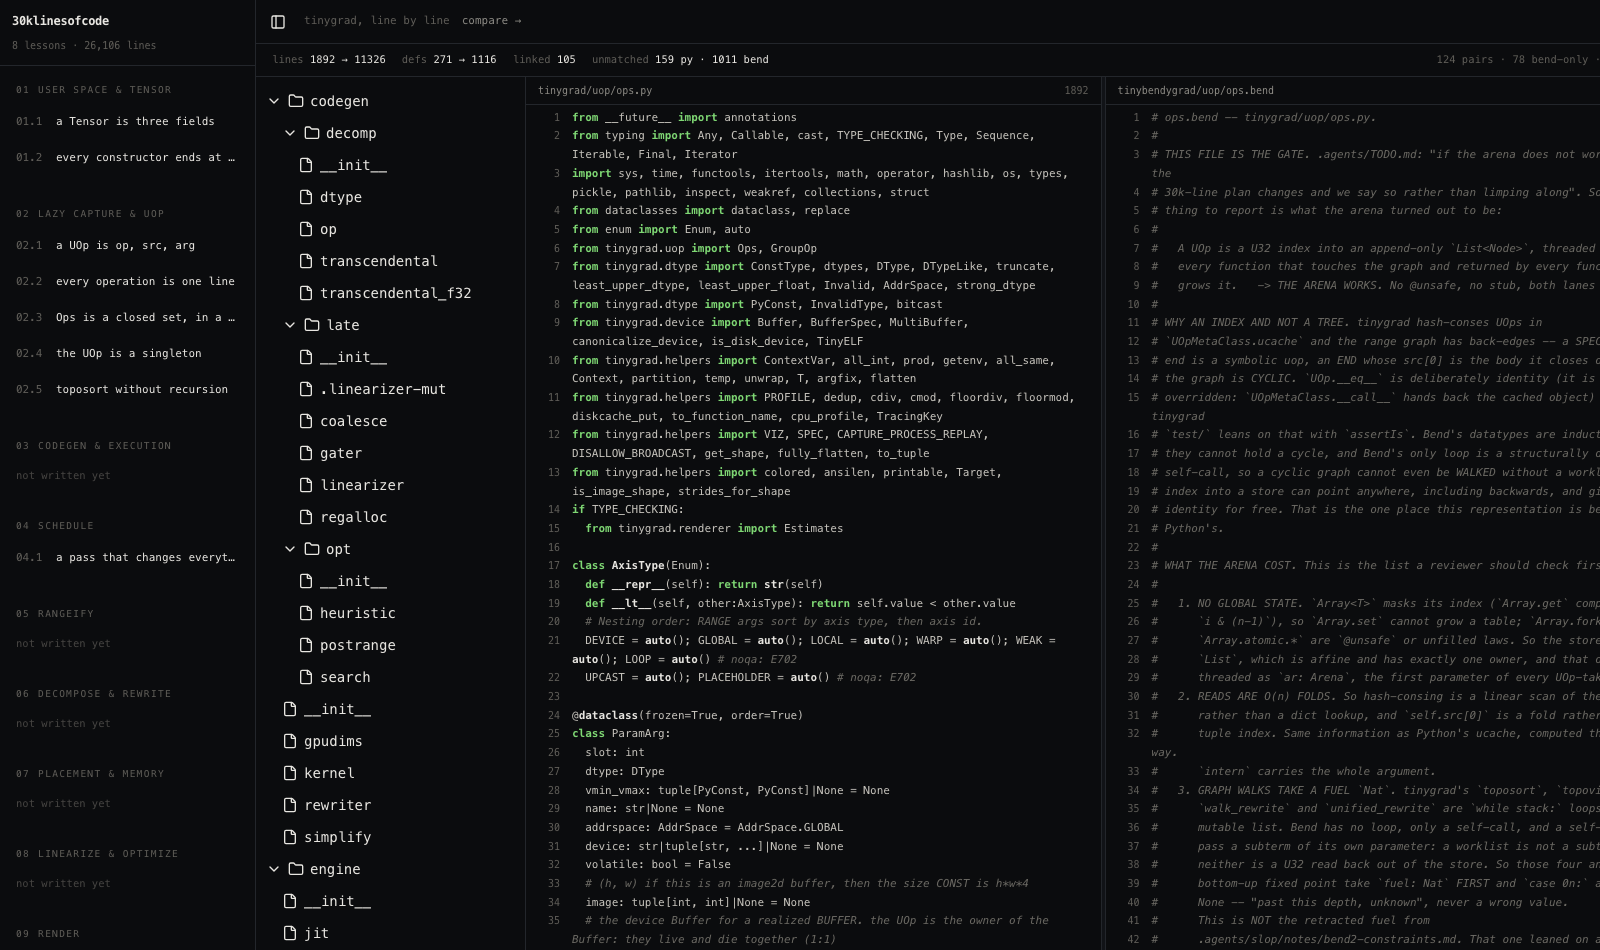
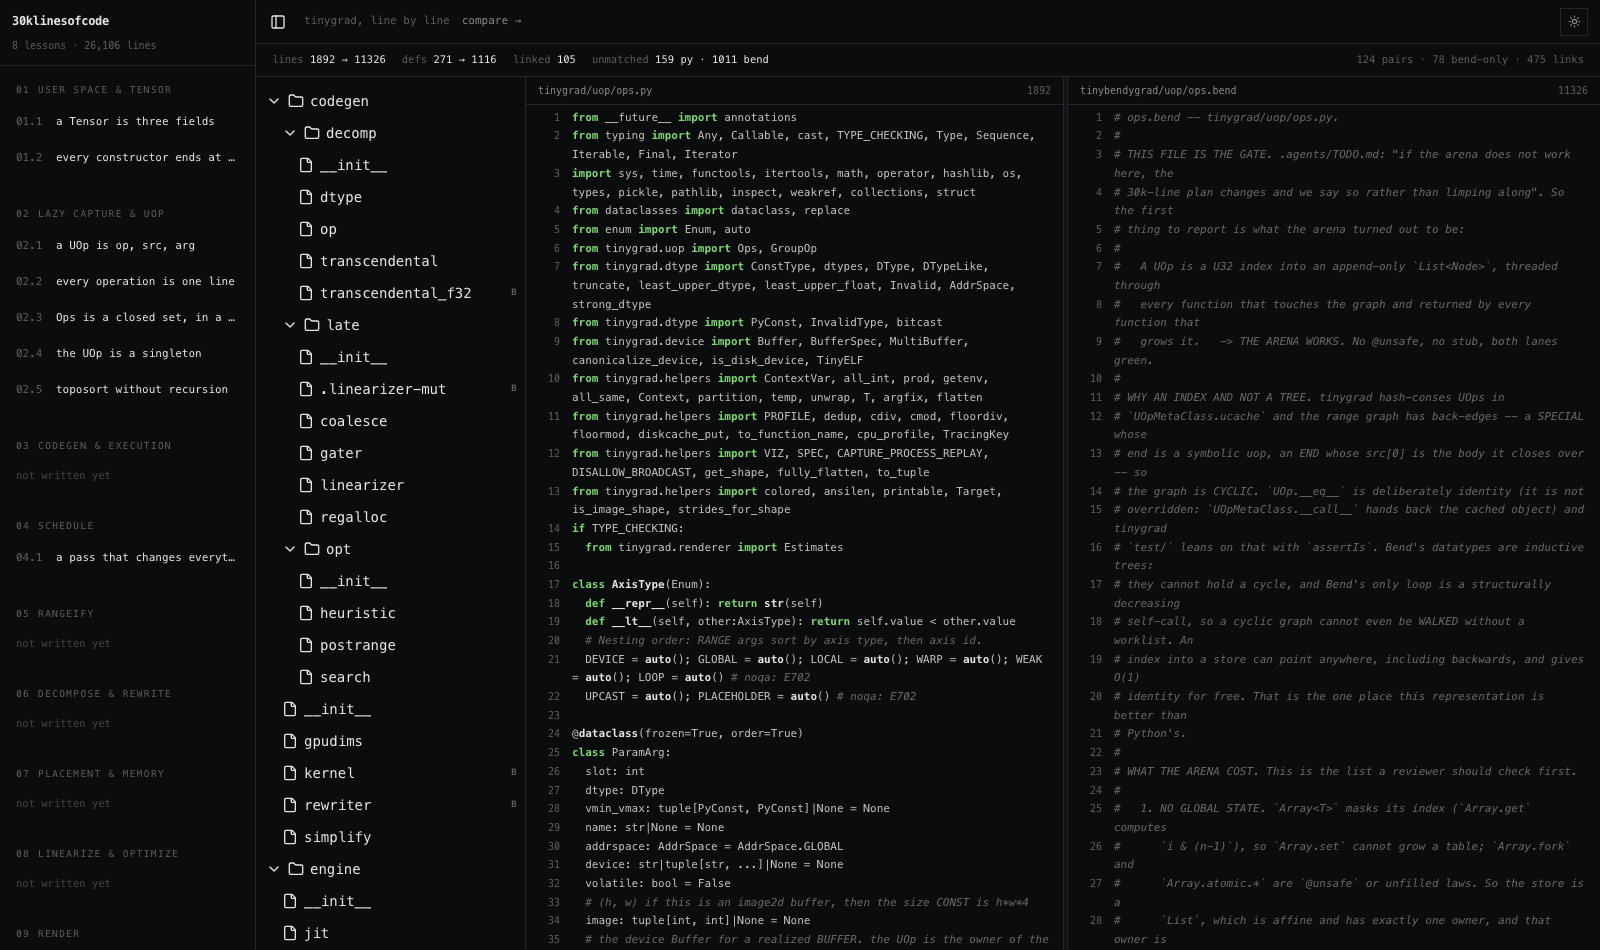
30klines: badges only for a missing side, and long lines wrap
A pair gets no badge. You asked for P and B only where a file is in one tree and
not the other, and the paired arrow was both the least legible mark in the tree
and redundant — the default state does not need a glyph.

The right pane stopped wrapping because a CSS grid column defaults to
min-width:auto and refuses to shrink below its content. The column is
minmax(0,1fr) now, so a 200-character comment wraps instead of running past the
window.

tensor.bend showing 0 links is not a matcher bug: it defines 5 Tensor.* against
tensor.py's 63, because the port moved the method surface into Tensors.* and
top-level helpers. The matcher is reporting the port's shape.

diff --git a/.agents/slop/30klines/apps/webapp/src/routes/compare.tsx b/.agents/slop/30klines/apps/webapp/src/routes/compare.tsx
@@ -23,7 +23,7 @@ function ComparePage() {
   // it is a pair, a Bend-only file or a Python-only one. The two roots are a
   // fact about the repo, not something the reader should have to scroll past.
   const entries = useMemo(() => {
-    const rows = files.map((f) => ({ path: relPath((f.py ?? f.bend) as string), badge: f.py ? "↔" : "B" }))
+    const rows = files.map((f) => ({ path: relPath((f.py ?? f.bend) as string), badge: f.py ? "" : "B" }))
     const only = compareData.pythonOnlyFiles.map((p) => ({ path: relPath(p), badge: "P" }))
     return [...rows, ...only].sort((a, b) => a.path.localeCompare(b.path))
   }, [files])
@@ -226,7 +226,7 @@ function Pane(props: {
               data-line={line}
               onClick={() => target !== undefined && onJump(side, line)}
               className={
-                "grid grid-cols-[46px_1fr] pr-3 " +
+                "grid grid-cols-[46px_minmax(0,1fr)] pr-3 " +
                 (target !== undefined ? "cursor-pointer hover:bg-wash/60 " : "") +
                 (focus === line ? "bg-wash " : "")
               }
@@ -234,7 +234,7 @@ function Pane(props: {
             >
               <span className="select-none pr-3 text-right text-[10px] text-faint">{line}</span>
               <span
-                className="whitespace-pre-wrap break-words text-ink2"
+                className="min-w-0 whitespace-pre-wrap break-words text-ink2"
                 dangerouslySetInnerHTML={{ __html: html || " " }}
               />
             </div>

diff --git a/.agents/slop/30klines/apps/webapp/src/components/ai-elements/file-tree.tsx b/.agents/slop/30klines/apps/webapp/src/components/ai-elements/file-tree.tsx
@@ -123,7 +123,7 @@ export function FileTreeFile({
         <FileIcon />
         <FileTreeName>{name}</FileTreeName>
       </Button>
-      {actions ? <div className="pr-2 text-[9px] font-semibold tracking-wide">{actions}</div> : null}
+      {actions ? <div className="pr-2 text-[9px] font-semibold tracking-wide text-faint">{actions}</div> : null}
     </div>
   )
 }
